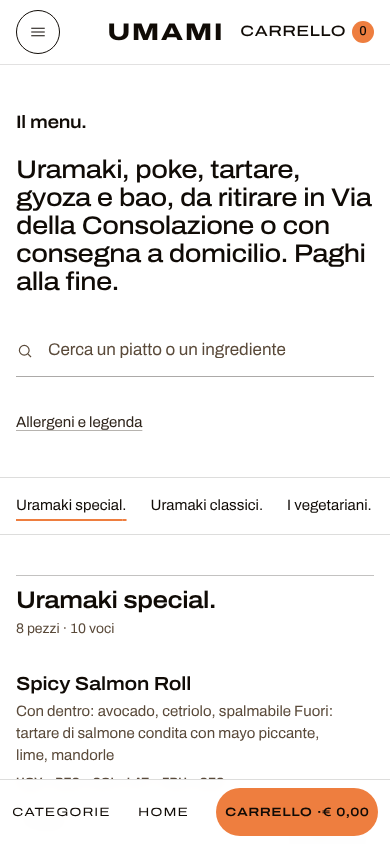
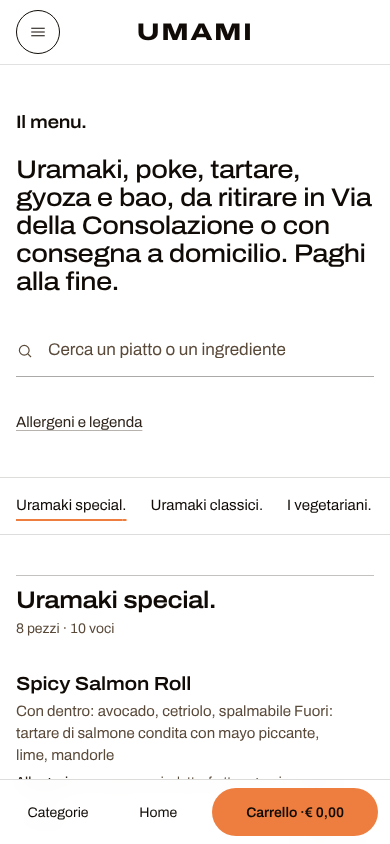
v2.1: una lingua tipografica, home a 2 capitoli, fasce ora/quarto, allergeni per esteso, un carrello su mobile
Claude-Session: https://claude.ai/code/session_01LSCnPxq5ZLnrvnRqcxrqF5

diff --git a/prototipo/checkout/index.html b/prototipo/checkout/index.html
@@ -70,7 +70,8 @@
         <legend class="sr-only">Orario</legend>
         <div class="c-blocco__testa" aria-hidden="true"><span class="t-mono">02</span><h2>Per che ora.</h2></div>
         <p class="c-fasce-giorno" id="fasce-giorno"></p>
-        <div class="c-fasce" id="fasce" role="radiogroup" aria-labelledby="fasce-giorno"></div>
+        <div class="c-fasce c-fasce--ore" id="ore" role="radiogroup" aria-label="Ora"></div>
+        <div class="c-fasce" id="fasce" role="radiogroup" aria-label="Quarto d'ora"></div>
         <p class="u-campo__aiuto">Fasce di 15 minuti negli orari di apertura, con 30 minuti di preparazione: valori di esempio, quelli veri vengono dalla configurazione di Food Store.</p>
       </fieldset>
 
@@ -170,9 +171,20 @@
   /* fasce orarie */
   var f = U.fasce();
   $("fasce-giorno").textContent = f.fasce.length ? f.giorno + " · scegli una fascia" : "Nessuna fascia disponibile";
-  $("fasce").innerHTML = f.fasce.map(function (t, i) {
-    return '<div class="c-fascia"><input type="radio" name="fascia" id="fa-' + i + '" value="' + t + '"' + (i === 0 ? " checked" : "") + '><label for="fa-' + i + '">' + t + "</label></div>";
+  /* prima l'ora (19, 20, 21…), poi i quarti d'ora di quell'ora: 5 + 4 pulsanti invece di 18 */
+  var perOra = {};
+  f.fasce.forEach(function (t) { var h = t.slice(0, 2); (perOra[h] = perOra[h] || []).push(t); });
+  var ore = Object.keys(perOra);
+  $("ore").innerHTML = ore.map(function (h, i) {
+    return '<div class="c-fascia"><input type="radio" name="ora" id="ora-' + h + '" value="' + h + '"' + (i === 0 ? " checked" : "") + '><label for="ora-' + h + '">Ore ' + h + "</label></div>";
   }).join("");
+  function quarti(h) {
+    $("fasce").innerHTML = (perOra[h] || []).map(function (t, i) {
+      return '<div class="c-fascia"><input type="radio" name="fascia" id="fa-' + i + '" value="' + t + '"' + (i === 0 ? " checked" : "") + '><label for="fa-' + i + '">' + t + "</label></div>";
+    }).join("");
+  }
+  if (ore.length) quarti(ore[0]);
+  $("ore").addEventListener("change", function (e) { if (e.target.name === "ora") quarti(e.target.value); });
 
   /* validazione: al primo invio mostra tutto, poi aggiorna mentre si corregge */
   var regole = {

diff --git a/assets/css/v7.css b/assets/css/v7.css
@@ -256,3 +256,32 @@ h1 em, h2 em, .t-display em, .t-xxl em, .t-xl em, .m-testa h1 em, .v7-sez-testa 
 .h-passi li { border-top: 4px solid var(--c-corallo); }
 .h-passi li::before { color: var(--c-inchiostro); }
 .u-cassetto__testa h2 { font-family: var(--font-display); font-stretch: 112%; font-weight: 600; text-transform: none; letter-spacing: -0.02em; }
+
+/* =========================================================================
+   v2.1 · UNA SOLA LINGUA TIPOGRAFICA
+   Maiuscolo largo SOLO per il marchio e il palcoscenico. Tutto il resto:
+   minuscolo normale, due stili — titoli (Archivo 112%, 600) e testo (Archivo 100%).
+   ========================================================================= */
+.v7-voce { font-family: var(--font-sans); font-stretch: 100%; text-transform: none; letter-spacing: 0; font-size: .9375rem; font-weight: 500; }
+.v7-voce .v7-roll > span::after { text-transform: none; }
+.v7-mega__links a, .v7-mob__gruppo ul a, .u-barra a, .eyebrow, .u-footer h2, .h-info dt, .tessera__nome, .u-servizio__cta {
+  font-family: var(--font-sans); font-stretch: 100%; text-transform: none; letter-spacing: 0; }
+.v7-mega__links a { font-size: .9375rem; }
+.v7-mega__titolo, .v7-mob a.v7-mob__titolo { font-stretch: 112%; font-weight: 600; text-transform: none; letter-spacing: -0.02em; }
+.v7-mega__firme b { font-stretch: 112%; }
+.u-barra a { font-size: .875rem; }
+.u-barra a.u-barra__cta { font-weight: 600; letter-spacing: 0; }
+.eyebrow { font-size: .875rem; color: var(--text-3); }
+.u-footer h2 { font-size: .875rem; }
+.tessera__nome { font-size: 1rem; font-weight: 600; }
+
+/* Allergeni per esteso */
+.u-allergeni-testo { font-size: .8125rem; color: var(--text-3); line-height: 1.4; max-width: 52ch; }
+.u-allergeni-testo__et { color: var(--text-2); font-weight: 500; }
+
+/* Un solo carrello su mobile: resta quello nella barra in basso */
+@media (max-width: 1023px) { .v7-header .v7-carrello { display: none; } }
+
+/* Fasce: prima l'ora, poi il quarto d'ora */
+.c-fasce--ore { margin-bottom: 4px; }
+.c-fasce--ore .c-fascia input:checked + label { background: var(--c-inchiostro); border-color: var(--c-inchiostro); color: #fff; }

diff --git a/prototipo/index.html b/prototipo/index.html
@@ -59,7 +59,6 @@
   <div class="palco__fondi" aria-hidden="true">
     <img class="is-attivo" data-cap="0" src="../assets/img/provvisorie/copertina_misto.jpg" alt="" fetchpriority="high" onerror="this.classList.add('manca')">
     <img data-cap="1" src="../assets/img/provvisorie/18.jpg" alt="" loading="lazy" onerror="this.classList.add('manca')">
-    <img data-cap="2" src="../assets/img/provvisorie/copertina-6.jpg" alt="" loading="lazy" onerror="this.classList.add('manca')">
     <span class="palco__nota">foto provvisorie · qui il video e le scene di preparazione</span>
   </div>
 
@@ -73,13 +72,9 @@
     <p class="palco__piccolo">Umami nasce dalla connessione di due cuochi salentini, appassionati e ricercatori di prodotti del territorio</p>
     <h2 class="palco__gigante">Il territorio<br><span class="palco__segno" aria-hidden="true">✕</span><br>il mondo</h2>
     <p class="palco__piccolo">che contaminano con sapori unici provenienti da tutto il mondo.</p>
-  </div>
-
-  <div class="palco__cap" data-cap="2">
-    <p class="palco__etichetta">Ogni sera</p>
-    <p class="palco__frase">Gastronomia di mare e Italian sushi. Ritiro in Via della Consolazione, consegna a domicilio, catering in Salento.</p>
     <a class="u-btn u-btn--l u-btn--segnale" href="ordina/">Ordina per stasera</a>
   </div>
+
 
   <div class="palco__cornice">
     <nav class="palco__link" aria-label="Contatti rapidi"><a href="tel:+393476168387">(Tel)</a><a href="https://www.google.com/maps/search/?api=1&amp;query=Via+della+Consolazione+55+73045+Leverano+LE" rel="noopener">(Maps)</a></nav>

diff --git a/assets/js/umami.js b/assets/js/umami.js
@@ -21,9 +21,8 @@
   var AL = { 1:["GLU","Glutine"], 2:["CRO","Crostacei"], 3:["UOV","Uova"], 4:["PES","Pesce"], 5:["ARA","Arachidi"], 6:["SOI","Soia"], 7:["LAT","Latte"], 8:["FRU","Frutta a guscio"], 9:["SED","Sedano"], 10:["SEN","Senape"], 11:["SES","Sesamo"], 12:["SOL","Solfiti"], 13:["LUP","Lupini"], 14:["MOL","Molluschi"] };
   function allergeni(lista) {
     if (!lista || !lista.length) return "";
-    return '<ul class="u-allergeni" aria-label="Allergeni">' + lista.map(function (n) {
-      return '<li class="u-allergene" title="' + AL[n][1] + '"><span aria-hidden="true">' + AL[n][0] + '</span><span class="sr-only">' + AL[n][1] + '</span></li>';
-    }).join("") + "</ul>";
+    // v2: nome per esteso (i codici a tre lettere erano criptici)
+    return '<p class="u-allergeni-testo"><span class="u-allergeni-testo__et">Allergeni</span> ' + lista.map(function (n) { return AL[n][1].toLowerCase(); }).join(", ") + "</p>";
   }
 
   /* ---- catalogo: i dati restano grezzi, qui solo presentazione ---- */

diff --git a/docs/fase-3/STUDIO-PREMIATI.md b/docs/fase-3/STUDIO-PREMIATI.md
@@ -26,3 +26,10 @@ Stessa logica di Watchhouse applicata alle pagine interne (`assets/css/interne.c
 - titoli in minuscolo normale col punto, peso 600, niente maiuscoli giganti;
 - Menu: etichetta "Il menu." a sinistra e frase grande a destra; categorie col punto; ogni categoria con il nome fisso a sinistra mentre i piatti scorrono a destra;
 - Cassa: blocchi con riga sottile sopra e titolo col punto, riepilogo senza riquadro, fascia oraria scelta e pulsante di conferma in arancione con testo nero.
+
+## Revisione v2.1 (dopo la valutazione complessiva)
+- **Una sola lingua tipografica**: maiuscolo largo solo per il marchio e il palcoscenico; barra in alto, menu a tendina, etichette, barra mobile e footer in minuscolo normale.
+- **Home più corta**: il palcoscenico passa da 3 a 2 capitoli; il pulsante "Ordina per stasera" è nel secondo.
+- **Fasce orarie**: prima l'ora (Ore 19… Ore 23), poi i 4 quarti d'ora di quell'ora: 9 pulsanti invece di 18.
+- **Allergeni per esteso** ("Allergeni uova, pesce, soia…") al posto dei codici a tre lettere.
+- **Un solo carrello su mobile**: resta quello nella barra in basso; nella testata è nascosto.
